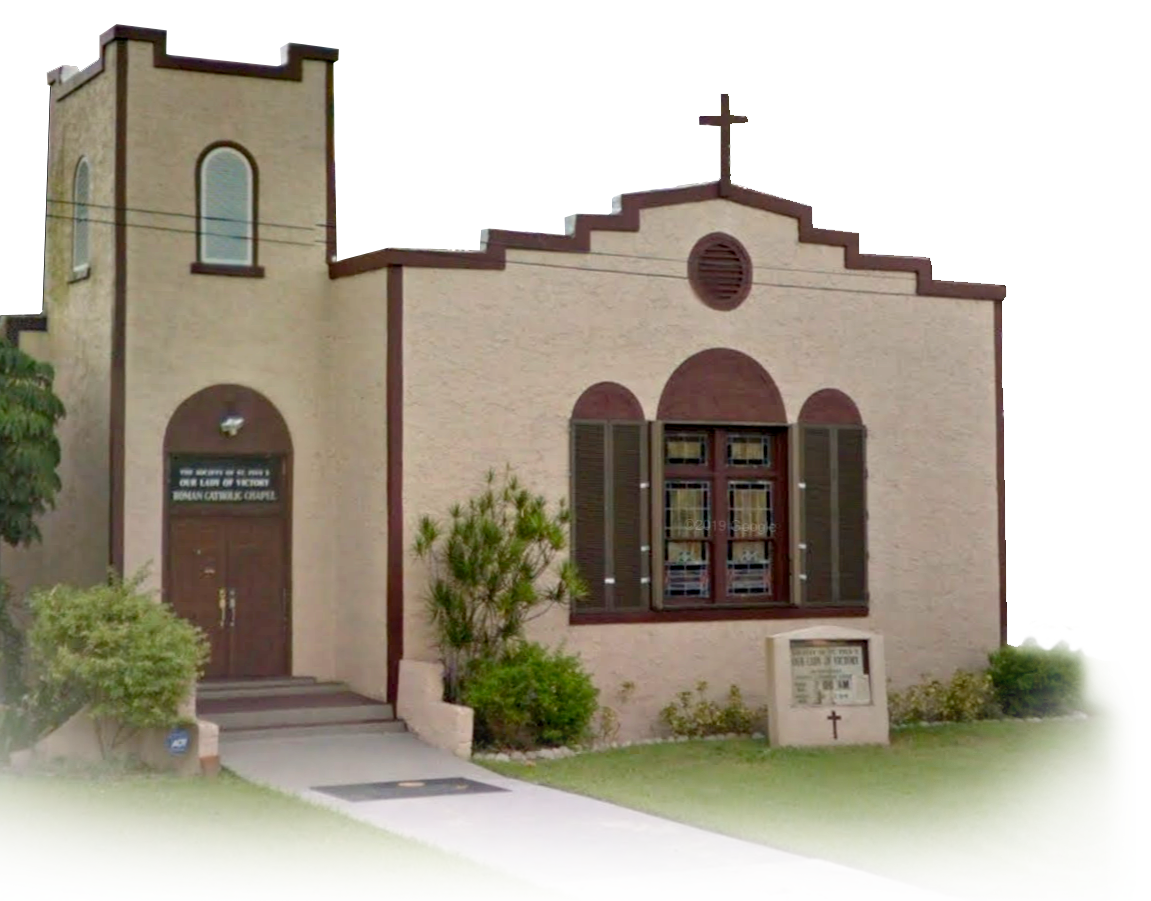
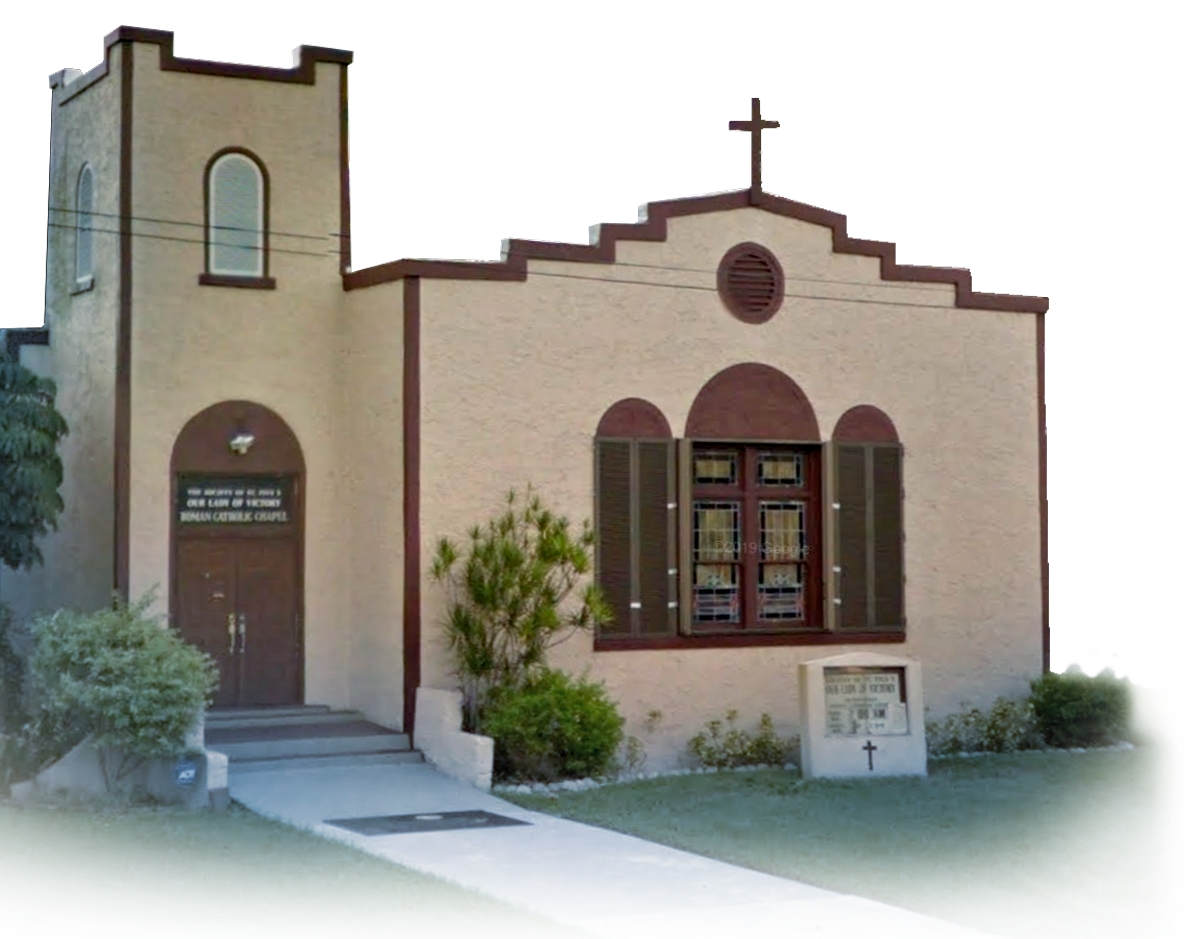
New picture - Switches OLV with Church Building

Changed region(s): [[0.0, 0.5905, 0.9731, 0.9634], [0.0, 0.1243, 0.0912, 0.4972]]

diff --git a/src/components/HomeContent.js b/src/components/HomeContent.js
@@ -129,7 +129,7 @@ const HomeContent = () => {
    <div className="grid grid-cols-1 md:grid-cols-2 justify-center items-center">
     <div className="pt-10">
      <div className="centerAll w-11/12">
-     <StaticImage className="centerAll w-2/3 md:w-5/6 lg:w-2/3" src="../images/Our_lady_of_victory_crop.png" alt="Our Lady of Victory in Davie Florida" />
+     <StaticImage className="centerAll w-2/3 md:w-5/6 lg:w-2/3" src="../images/our_lady_of_victory_chapel.png" alt="Our Lady of Victory in Davie Florida" />
      </div>
     </div>
     
